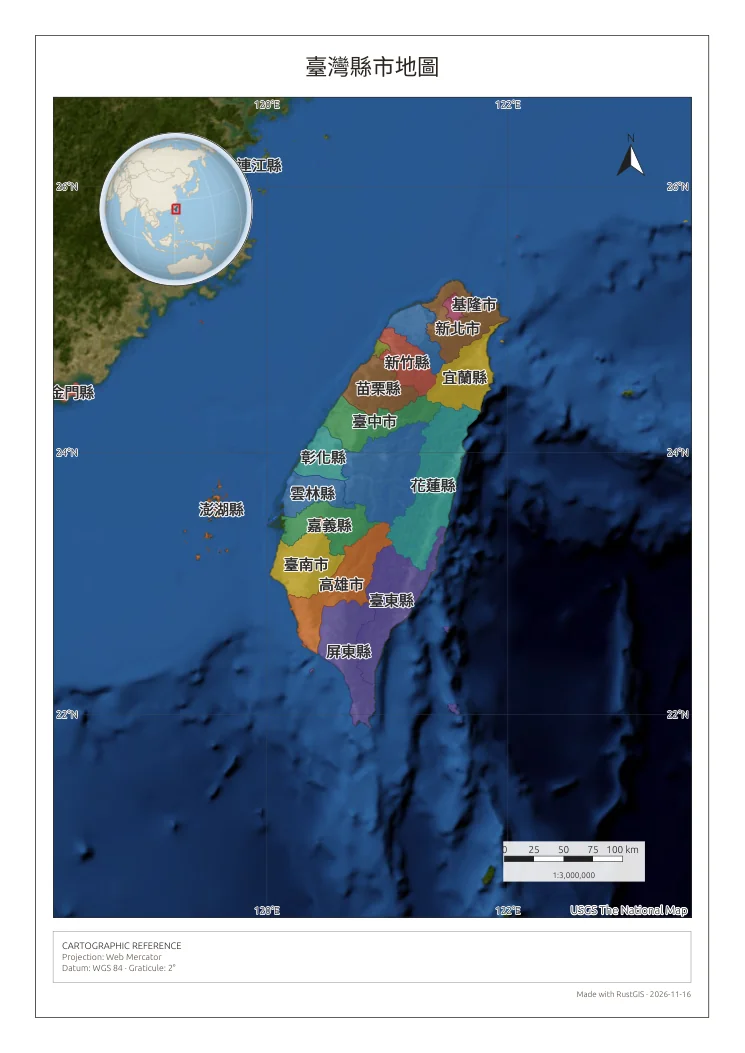
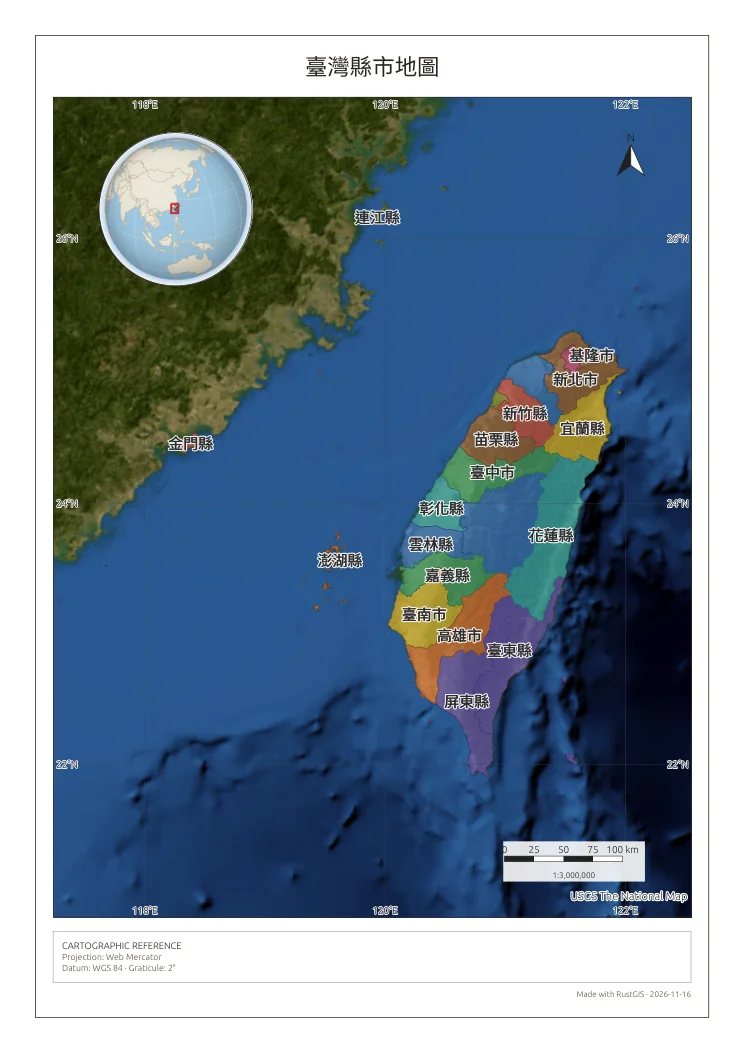
審查建議 P0：修正第 1、2、5、6 課的介面說明與第 6 課圖面配置
- 第 1 課：補上左側三個頁籤、「底圖 · 海洋」與兩個搜尋列的差別
- 第 2 課：提醒圖層名稱的資料日期可能不同
- 第 5 課：「依位置選取圖層」補上「單位」、說明「融合」，改用「測地環域」
- 第 6 課：「指北針」改為「指北標」；地圖框置中，金門、馬祖不再被切掉；說明小縣市標註被隱藏的原因；重拍截圖

diff --git a/docs/tutorials/05-buffer.md b/docs/tutorials/05-buffer.md
@@ -47,14 +47,14 @@
     | 輸入圖徵 | `COUNTY_MOI_1140318` | 要做環域的圖層 |
     | 距離 | `10` | 預設是 100，改成 10 |
     | 單位 | 公里 | 也可以選公尺、英里等 |
-    | 融合 | 無 | 有多個圖徵時，要不要把環域合成一塊 |
+    | 融合 | 無 | 有多個圖徵時，要不要把環域合成一塊（見下方說明） |
     | 輸出名稱 | `臺北市_10km` | 結果圖層的名稱，可以自己取 |
 
     ![環域工具，距離 10 公里，輸出名稱「臺北市_10km」](../images/05-buffer-tool.webp){ width="320" }
 
 3. 按 **執行**。
 
-下方出現綠色的「**已完成**」，圖層面板最上方多了一個 `臺北市_10km` 圖層。放大到北部，就能看到臺北市外圍 10 公里的範圍：
+下方出現綠色的「**已完成**」，底下寫著 `Buffer: 1 features at 10 Kilometers`（分析工具的結果訊息目前還是英文，意思是「對 1 個圖徵做了 10 公里的環域」）。圖層面板最上方多了一個 `臺北市_10km` 圖層。放大到北部，就能看到臺北市外圍 10 公里的範圍：
 
 ![臺北市外圍 10 公里的環域](../images/05-buffer-result.webp)
 
@@ -63,13 +63,21 @@
 !!! info "不用換坐標系統嗎？"
     這份資料的坐標是經緯度，單位是「度」，不是公尺。在許多 GIS 軟體裡，要先把資料轉成以公尺為單位的坐標系統（例如 TWD97 二度分帶，EPSG:3826），環域的距離才會正確。
 
-    RustGIS 的環域是**大地測量環域**：直接在地球表面量距離，所以經緯度資料也能直接輸入「10 公里」，不用先轉換坐標系統。
+    RustGIS 的環域是**測地環域**（geodesic）：直接在地球表面量距離，所以經緯度資料也能直接輸入「10 公里」，不用先轉換坐標系統。
+
+!!! tip "「融合」選「無」和「全部」的差別"
+    這次只選了臺北市一個圖徵，所以「融合」選什麼都一樣。如果同時選了臺北市和新北市：
+
+    - **無**：每個縣市各做一個環域，結果有 2 個圖徵。兩個環域重疊的地方會疊在一起。
+    - **全部**：把所有環域合併成 1 個圖徵，重疊的地方只算一次。
+
+    之後如果要計算環域的**面積**，記得選「全部」；選「無」的話，重疊的部分會被重複計算。
 
 ## 找出碰到環域的縣市
 
 有了環域範圍，就可以問：「臺北市周圍 10 公里內，涵蓋了哪些縣市？」這要用 **依位置選取**。
 
-1. 按 **常用 › 選取 › 依位置選取**。
+1. 按 **常用 › 選取 › 依位置選取**。右側會打開「**依位置選取圖層**」工具。
 2. 依下表填寫：
 
     | 欄位 | 填寫 | 說明 |
@@ -77,9 +85,10 @@
     | 輸入圖徵 | `COUNTY_MOI_1140318` | 要從哪個圖層選 |
     | 選取圖徵 | `臺北市_10km` | 用哪個圖層的範圍來選 |
     | 搜尋距離 | `0` | 0 表示只選真的碰到的 |
+    | 單位 | 公里（預設） | 搜尋距離的單位。距離是 0 時選什麼都一樣；要找「距離某圖層 500 公尺內」時，就要改成公尺 |
     | 反轉 | 否 | 選「是」會反過來，選出**沒有**碰到的 |
 
-    ![依位置選取，輸入圖徵是縣市界線，選取圖徵是臺北市_10km](../images/05-select-by-location.webp){ width="320" }
+    ![依位置選取圖層，輸入圖徵是縣市界線，選取圖徵是臺北市_10km](../images/05-select-by-location.webp){ width="320" }
 
     「輸入圖徵」預設是剛做好的 `臺北市_10km`，記得改成 `COUNTY_MOI_1140318`。
 

diff --git a/docs/tutorials/01-open-web-app.md b/docs/tutorials/01-open-web-app.md
@@ -16,7 +16,7 @@
 
 ## 切換成繁體中文
 
-如果瀏覽器的語言是繁體中文（臺灣），RustGIS 會自動顯示繁體中文。若畫面是英文，可以這樣切換：
+如果瀏覽器的語言是繁體中文（臺灣），RustGIS 會自動顯示繁體中文，上方的頁籤會是「常用、資料、樣式…」，這時可以直接跳到[認識畫面](#screen)。若畫面是英文，可以這樣切換：
 
 1. 點上方的 **Settings** 頁籤。
 2. 在 **Language** 群組，點語言按鈕（上面寫著「Automatic (English)」）。
@@ -32,25 +32,39 @@
 
 選單裡的「**自動**」表示跟隨瀏覽器的語言。直接選「繁體中文（臺灣）」的話，不管瀏覽器設定為何都會顯示繁體中文。
 
-## 認識畫面
+## 認識畫面 { #screen }
 
 ![RustGIS 繁體中文介面的主畫面](../images/01-home.webp)
 
 | 區塊 | 位置 | 用途 |
 |---|---|---|
 | **功能區** | 最上方 | 依頁籤分組的各種功能：常用、資料、樣式、標註、編輯、分析… |
-| **圖層面板** | 左側 | 列出地圖上的圖層。勾選方塊可以顯示或隱藏圖層，上下拖曳可以調整繪製順序 |
+| **左側面板** | 左側 | 上方有三個頁籤：**圖層**、**瀏覽器**、**資料來源**。教學主要用 **圖層** 頁籤（圖層面板）：勾選方塊可以顯示或隱藏圖層，上下拖曳可以調整繪製順序 |
 | **地圖** | 中間 | 用滑鼠滾輪縮放、按住左鍵拖曳平移；右上角也有放大、縮小按鈕 |
 | **狀態列** | 最下方 | 比例尺、縮放層級、坐標參考系統，以及「所選圖徵」的數量 |
 
-範例地圖有四個圖層：
+左側面板另外兩個頁籤：**瀏覽器** 列出這個專案裡的地圖、圖面配置、表格等項目；**資料來源** 列出最近加入過的資料、收藏的資料來源和資料庫連線。入門教學暫時用不到。
+
+範例地圖有四個圖層，最下面還有一個底圖：
 
 - **Cities**（城市，點）
 - **Rivers**（河流，線）
 - **Lakes**（湖泊，面）
 - **Countries**（國家，面）
+- **底圖 · 海洋**：地圖最底下的藍色海洋背景，是底圖，不是資料圖層。第 2 課會換成更詳細的底圖。
 
 圖層名稱和地圖上的國名是英文，因為它們來自範例資料本身；RustGIS 只翻譯介面，不會改動資料的內容。下一課會載入屬性是中文的臺灣資料。
+
+## 兩個搜尋列
+
+畫面上有兩個搜尋列，用途不一樣：
+
+| 搜尋列 | 位置 | 用途 |
+|---|---|---|
+| **命令搜尋** | 右上角 | 找**功能**，例如輸入「環域」打開環域工具 |
+| **搜尋圖層、地點、經緯度…** | 左下角，圖層面板下方 | 找**地方**：輸入地名按 ++enter++，會列出候選地點（來自 OpenStreetMap），點一個地圖就會移過去；也可以輸入經緯度，例如 `25.03, 121.56` |
+
+想找地名時要用左下角那一個；把地名打進「命令搜尋」是找不到的。
 
 ## 找不到功能時
 
@@ -60,6 +74,7 @@
 
 - 網頁版不用安裝，打開 [web.rustgis.app](https://web.rustgis.app) 就能使用。
 - 介面語言在 **設定 › 語言** 切換。
-- 畫面分成功能區、圖層面板、地圖和狀態列。
+- 畫面分成功能區、左側面板、地圖和狀態列。
+- 右上角的 **命令搜尋** 找功能，左下角的搜尋列找地方。
 
 下一課：[2. 載入縣市界](02-load-boundaries.md)

diff --git a/docs/tutorials/02-load-boundaries.md b/docs/tutorials/02-load-boundaries.md
@@ -33,6 +33,9 @@
 
 圖層面板最上方會多出一個名為 `COUNTY_MOI_1140318` 的圖層。
 
+!!! note "圖層名稱的數字可能不一樣"
+    `1140318` 是撰寫教學時的資料版本日期。國土測繪中心會不定期更新縣市界線，如果你下載到較新的版本，圖層名稱後面的數字會不同，例如 `COUNTY_MOI_1150101`。這不是下載錯檔案。之後的教學寫到 `COUNTY_MOI_1140318` 的地方，請改選你畫面上的縣市界線圖層。
+
 !!! tip "只要載入一次"
     每按一次「新增資料」就會多一個圖層。重複載入時，第二個會叫 `COUNTY_MOI_1140318 (2)`。多出來的圖層可以按右鍵選「移除」。
 
